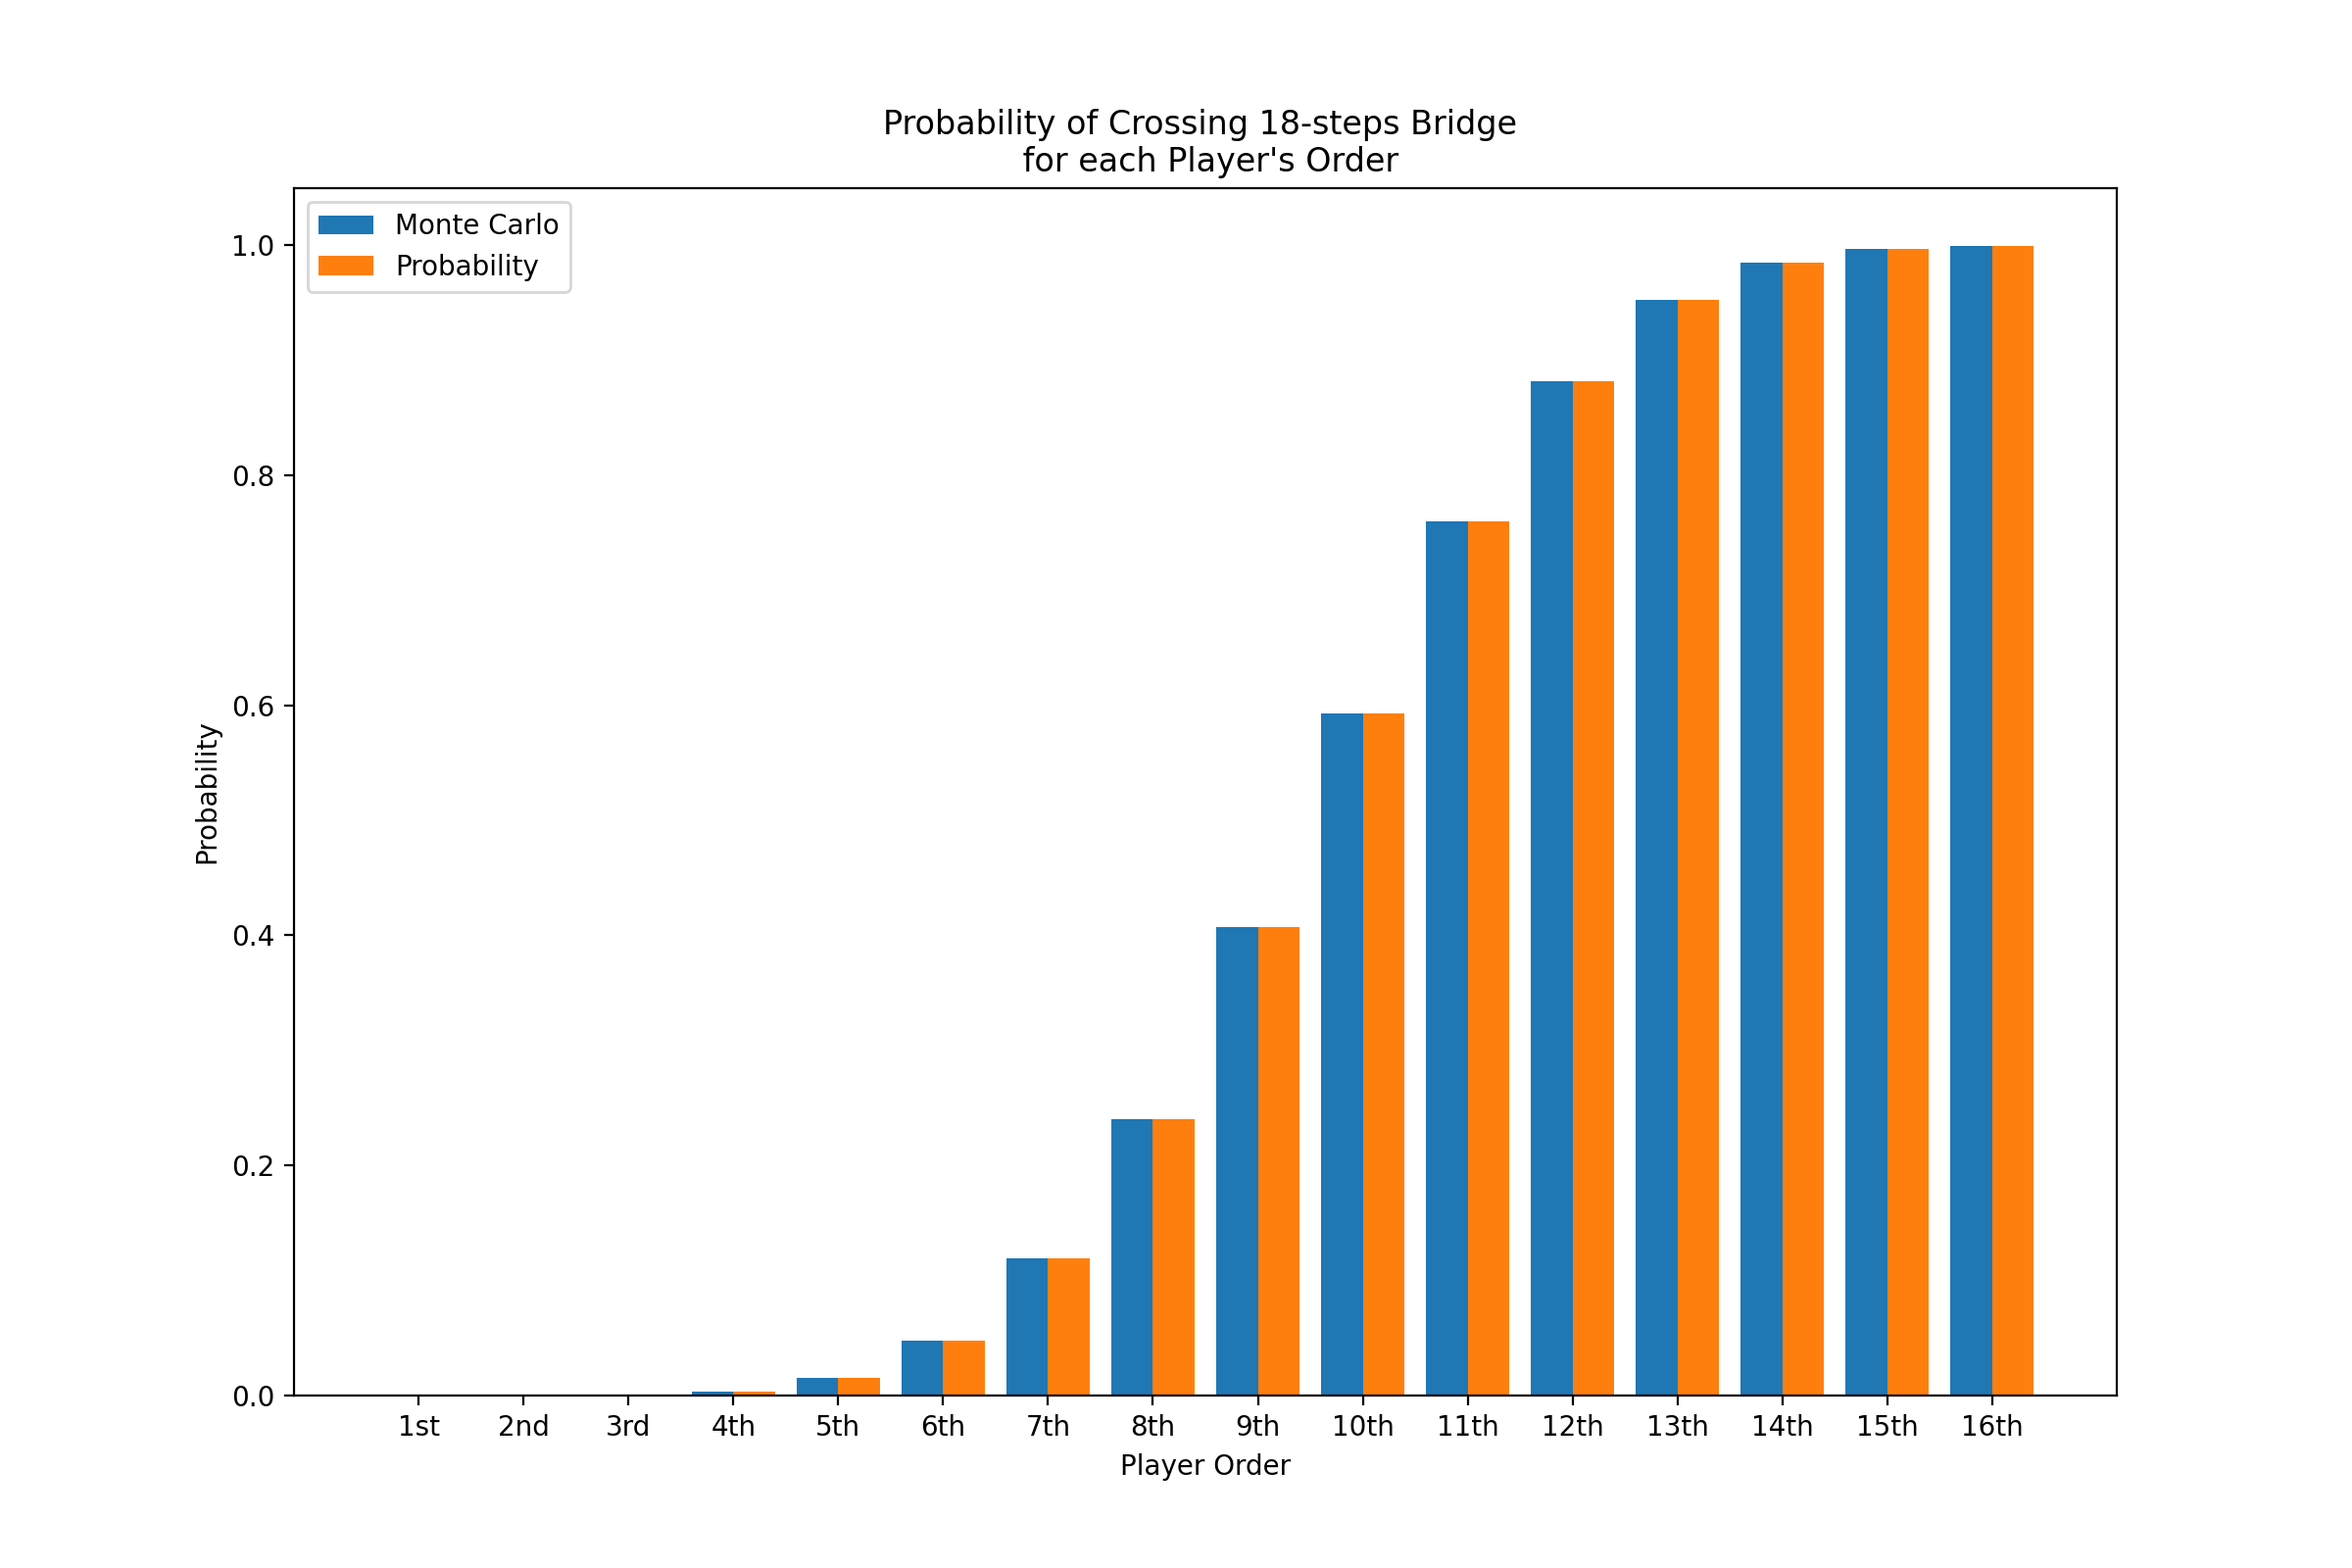
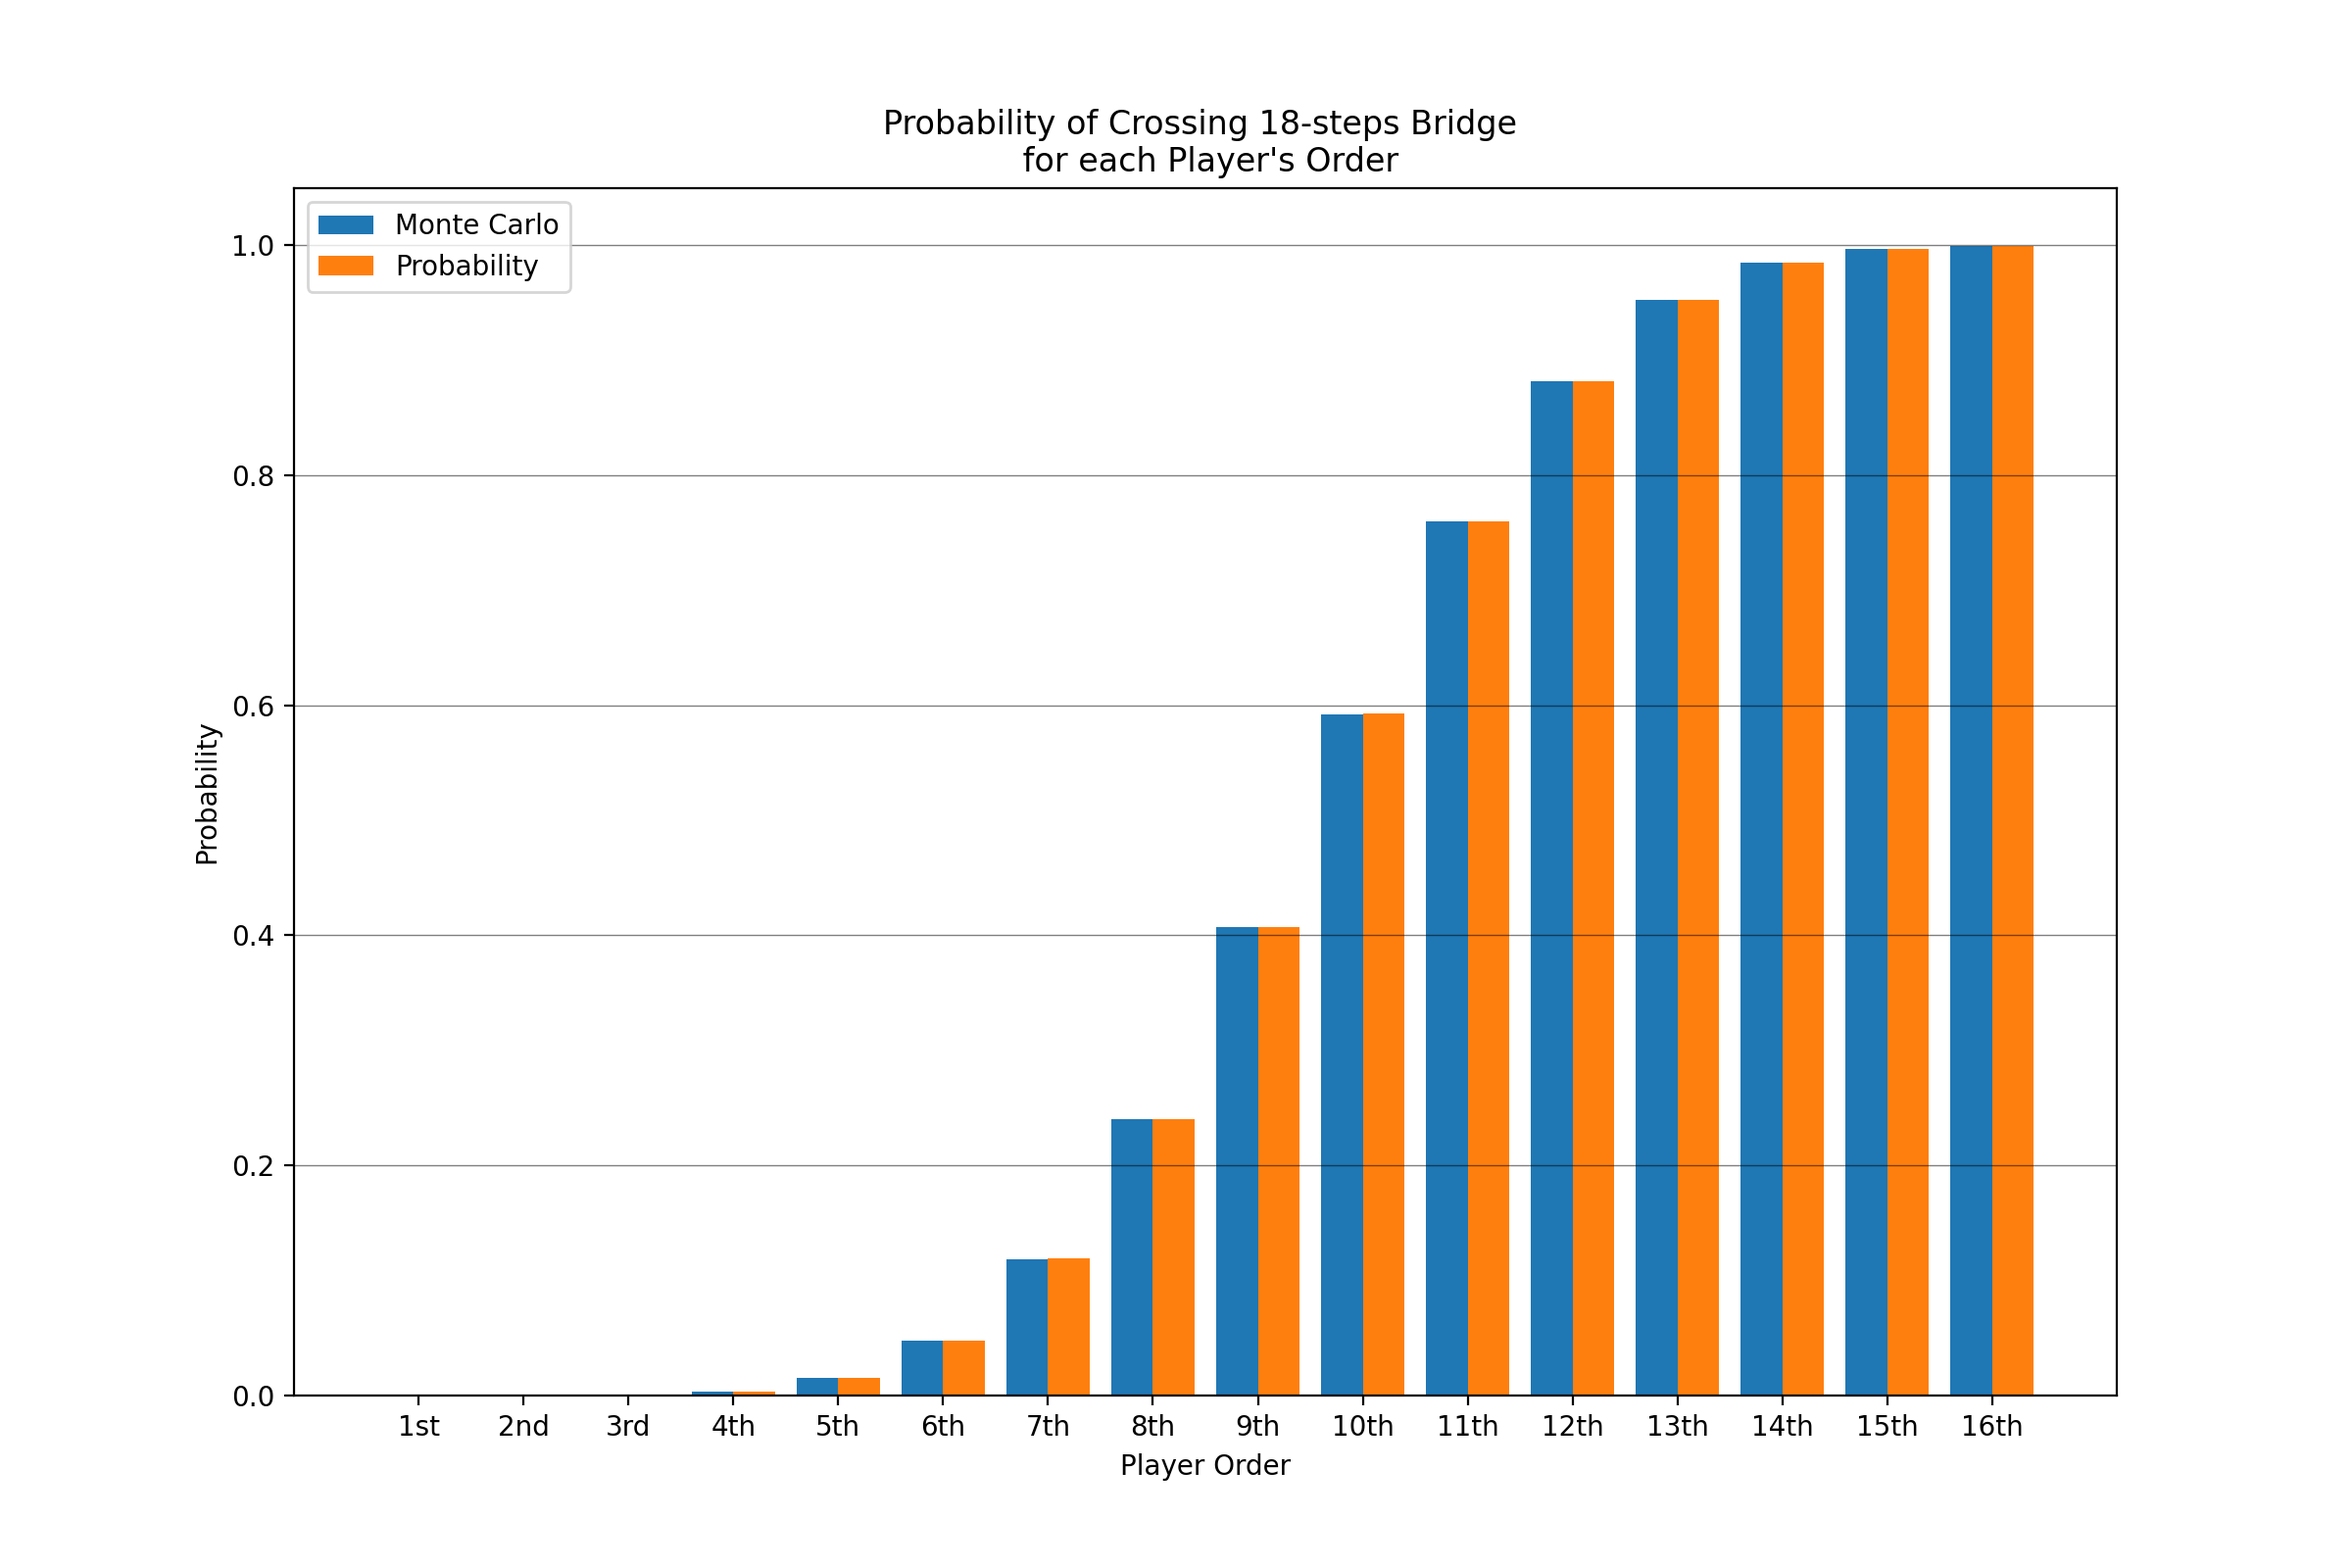
Add files via upload

diff --git a/plotting.py b/plotting.py
@@ -12,6 +12,7 @@ def plot_prob(mc:array, prob:list, i:int, save:bool=False) -> None:
     X_axis = arange(len(mc))
 
     plt.figure(figsize=(12, 8))
+    plt.grid(True, "major", axis="y", linestyle='-', linewidth=0.5, alpha=0.5, color="black")
     plt.bar(X_axis - 0.2, mc, 0.4, label='Monte Carlo')
     plt.bar(X_axis + 0.2, prob, 0.4, label='Probability')
 
@@ -19,7 +20,7 @@ def plot_prob(mc:array, prob:list, i:int, save:bool=False) -> None:
 
     plt.xlabel("Player Order")
     plt.ylabel("Probability")
-    plt.title(f"Probability of Passing {i}-steps Bridge \n for each Player Order")
+    plt.title(f"Probability of Crossing {i}-steps Bridge \n for each Player's Order")
     plt.legend()
     plt.show()
     if save:

diff --git a/main.py b/main.py
@@ -3,9 +3,11 @@ from game import GlassBridgeGame
 from plotting import plot_prob
 
 if __name__ == '__main__':
-    game = GlassBridgeGame(16, 18)
+    players = 16
+    steps = 18
+    game = GlassBridgeGame(players, steps)
     mc = game.mc_simulation(1000000)
 
-    prob = [round(get_prob_live(i, 18), 4) for i in range(1, 17) ]
+    prob = [round(get_prob_live(i, steps), 4) for i in range(1, players+1) ]
 
-    plot_prob(mc, prob, 18, True)
+    plot_prob(mc, prob, steps, True)
